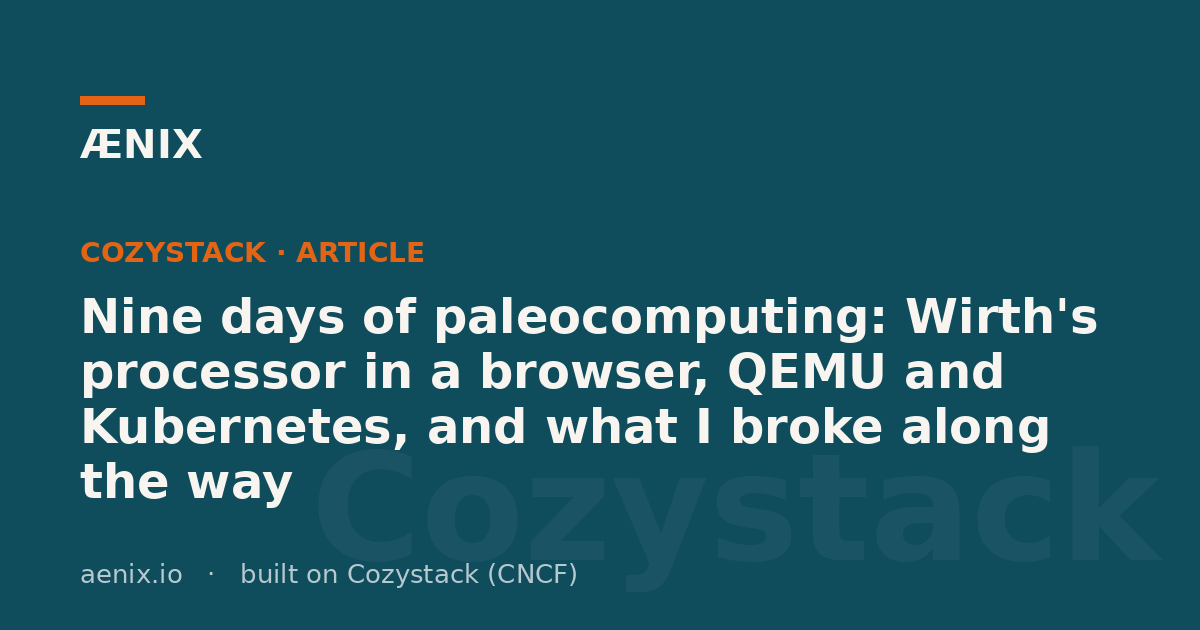
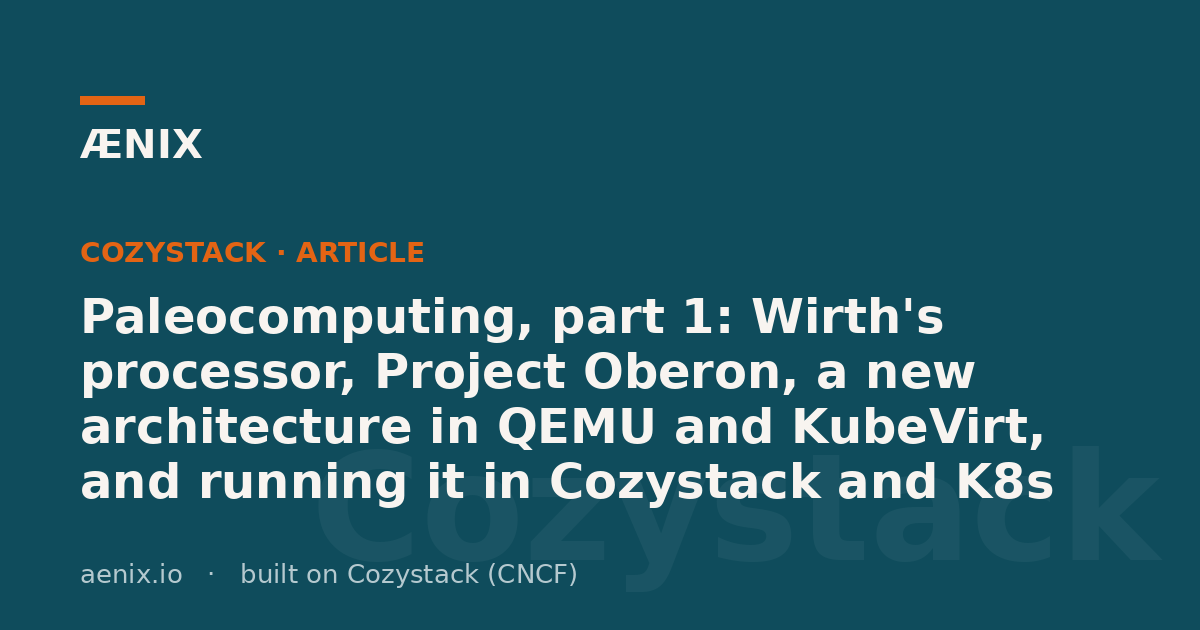
fix(blog): retitle the paleocomputing post as part 1 of the series
Assisted-by: LLM

Changed region(s): [[0.0617, 0.4524, 0.925, 0.8143]]

diff --git a/content/blog/2026/09/nine-days-of-paleocomputing/index.md b/content/blog/2026/09/nine-days-of-paleocomputing/index.md
@@ -1,5 +1,5 @@
 ---
-title: "Nine days of paleocomputing: Wirth's processor in a browser, QEMU and Kubernetes, and what I broke along the way"
+title: "Paleocomputing, part 1: Wirth's processor, Project Oberon, a new architecture in QEMU and KubeVirt, and running it in Cozystack and K8s"
 description: "Running Niklaus Wirth's RISC5 processor in a browser, in QEMU and in Kubernetes, and measuring what array-bounds checking really costs on a fully open system."
 date: "2026-09-30"
 cover_image: "/img/blog/covers/nine-days-of-paleocomputing.png"
@@ -10,6 +10,7 @@ language: "en"
 images:
   - "blog/2026/09/nine-days-of-paleocomputing/oberon-boot-screen.png"
 ---
+
 
 
 On 1 January 2024, Niklaus Wirth died — the man who gave us Pascal, Modula-2 and Oberon, won the Turing Award, and spent his whole life waging a stubborn war on bloated software. What fewer people know is that, already well into his seventies, he sat down and designed a processor of his own: small and simple, so that he could show students a whole computer at once, from the logic gates up to the windows on the screen.
